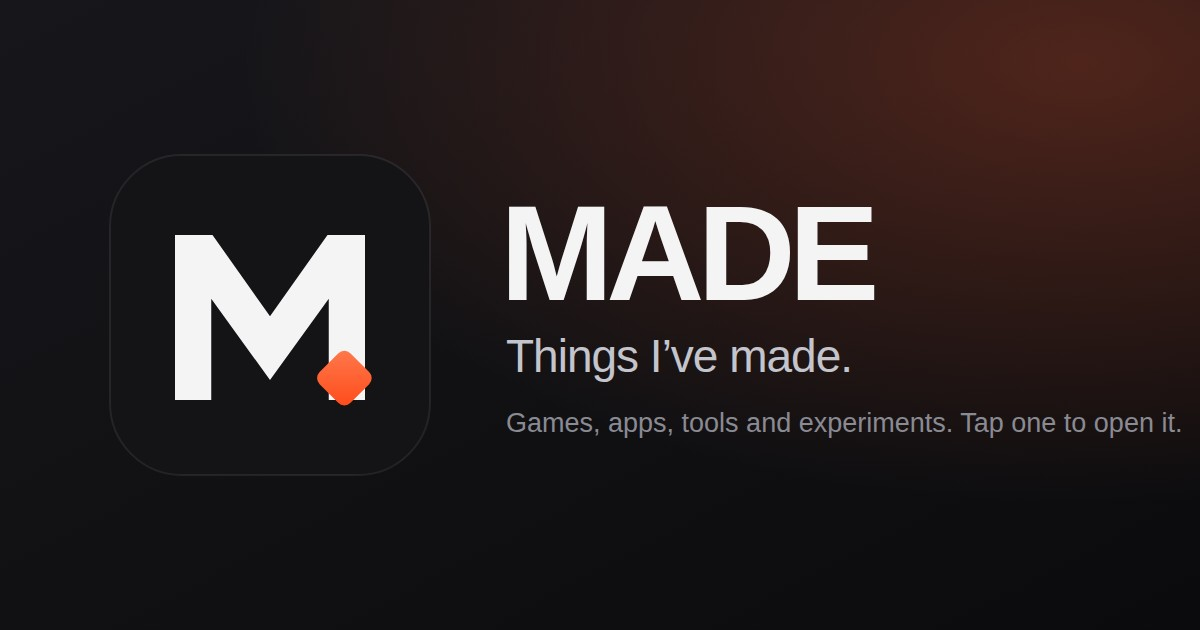
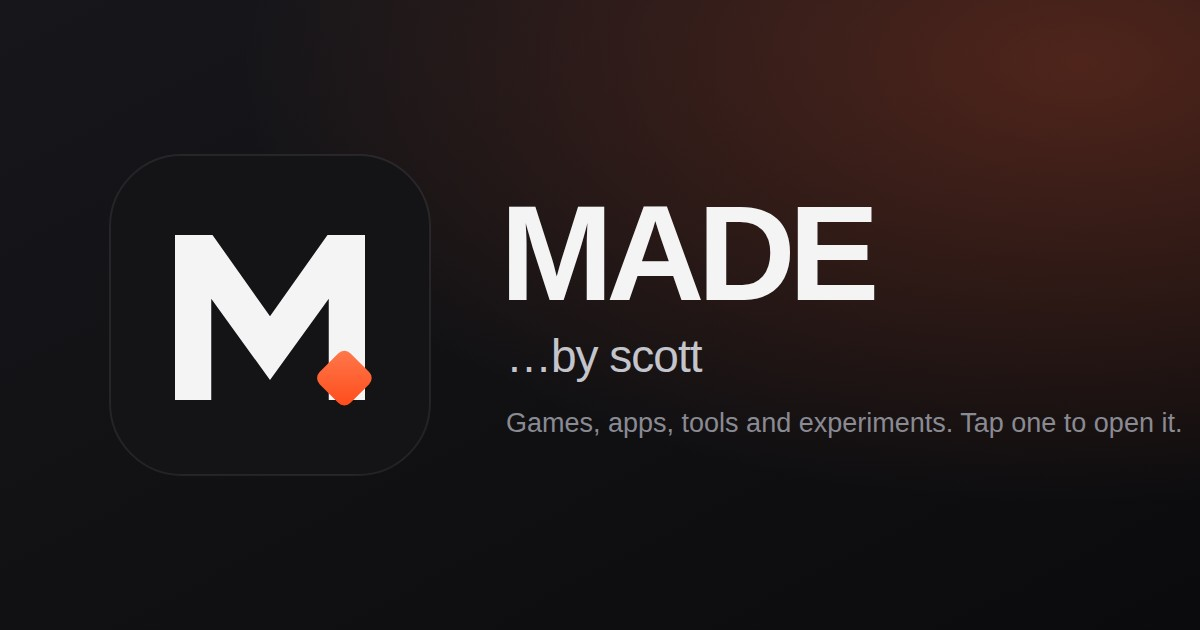
Tagline: MADE …by scott
Replaces "Things I've made." with "…by scott" in the header, the home
intro, the page and share titles, the app manifest, the social preview
image and the README.

Claude-Session: https://claude.ai/code/session_01WPS2KkU8gRxH5R7Ejx2etm

Changed region(s): [[0.4317, 0.5429, 0.7092, 0.6032]]

diff --git a/index.html b/index.html
@@ -3,7 +3,7 @@
   <head>
     <meta charset="UTF-8" />
     <meta name="viewport" content="width=device-width, initial-scale=1, viewport-fit=cover" />
-    <title>MADE — Things I’ve made.</title>
+    <title>MADE …by scott</title>
     <meta name="description" content="MADE is a showroom of things I’ve made: games, apps, tools and experiments. One link. Tap something to open it." />
 
     <link rel="icon" href="/icons/favicon-32.png" sizes="32x32" type="image/png" />
@@ -23,15 +23,15 @@
 
     <meta property="og:type" content="website" />
     <meta property="og:site_name" content="MADE" />
-    <meta property="og:title" content="MADE — Things I’ve made." />
+    <meta property="og:title" content="MADE …by scott" />
     <meta property="og:description" content="A showroom of games, apps, tools and experiments. Tap something to open it." />
     <meta property="og:url" content="https://scottyfncodes.github.io/MADE/" />
     <meta property="og:image" content="https://scottyfncodes.github.io/MADE/og.jpg" />
     <meta property="og:image:width" content="1200" />
     <meta property="og:image:height" content="630" />
-    <meta property="og:image:alt" content="MADE — Things I’ve made." />
+    <meta property="og:image:alt" content="MADE …by scott" />
     <meta name="twitter:card" content="summary_large_image" />
-    <meta name="twitter:title" content="MADE — Things I’ve made." />
+    <meta name="twitter:title" content="MADE …by scott" />
     <meta name="twitter:description" content="A showroom of games, apps, tools and experiments. Tap something to open it." />
     <meta name="twitter:image" content="https://scottyfncodes.github.io/MADE/og.jpg" />
     <link rel="canonical" href="https://scottyfncodes.github.io/MADE/" />

diff --git a/src/ui/header.ts b/src/ui/header.ts
@@ -3,7 +3,7 @@ import { hrefFor } from '../lib/router'
 
 export function wordmark(tag: 'a' | 'div' = 'a'): HTMLElement {
   const mark = h('span', { class: 'wordmark__mark' }, 'MADE', h('span', { class: 'wordmark__dot', 'aria-hidden': 'true' }))
-  const tagline = h('span', { class: 'wordmark__tag' }, 'Things I’ve made.')
+  const tagline = h('span', { class: 'wordmark__tag' }, '…by scott')
   if (tag === 'a') {
     return h('a', { class: 'wordmark', href: hrefFor({ kind: 'home', filter: 'all' }), 'aria-label': 'MADE home' }, mark, tagline)
   }

diff --git a/src/ui/home.ts b/src/ui/home.ts
@@ -15,7 +15,7 @@ export function homeView(filter: Filter): HTMLElement {
     'section',
     { class: 'container intro' },
     h('h1', { class: 'intro__title' }, 'MADE', h('span', { class: 'wordmark__dot', 'aria-hidden': 'true' })),
-    h('p', { class: 'intro__sub' }, 'Things I’ve made. Tap one to open it.'),
+    h('p', { class: 'intro__sub' }, '…by scott'),
   )
 
   const gridTitle = filter === 'all' ? 'Everything' : getCategory(filter).label

diff --git a/src/app.ts b/src/app.ts
@@ -6,7 +6,7 @@ import { notFound, projectDetail } from './ui/detail'
 import { footer, header } from './ui/header'
 import { homeView } from './ui/home'
 
-const SITE_TITLE = 'MADE — Things I’ve made.'
+const SITE_TITLE = 'MADE …by scott'
 
 /** Remembers the last home filter so "back" from a detail returns there. */
 let lastHomeHref = hrefFor({ kind: 'home', filter: 'all' })

diff --git a/README.md b/README.md
@@ -1,6 +1,6 @@
 # MADE
 
-**Things I’ve made.**
+**…by scott**
 
 MADE is a small, static showroom for my apps, games, tools and experiments. One link, tap something, use it.
 
